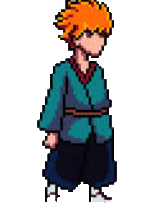
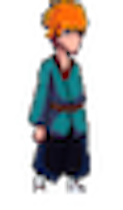
10.28

Changed region(s): [[0.2195, 0.0, 0.7561, 0.9429], [0.3659, 0.4, 0.3902, 0.4286], [0.3415, 0.4857, 0.3659, 0.5143]]

diff --git a/Objects/Character.py b/Objects/Character.py
@@ -1,0 +1,29 @@
+from GameFrame import RoomObject, Globals
+from GameFrame.Level import Level
+import pygame
+
+class Character(RoomObject):
+
+    def __init__(self, room, x, y):
+        RoomObject.__init__(self, room, x, y)
+
+        image = self.load_image("Stand.png")
+        self.set_image(image,130,180)
+
+        self.handle_key_events = True
+
+    def key_pressed(self, key):
+
+        if key[pygame.K_a]:
+            self.x -= 10
+        elif key[pygame.K_d]:
+            self.x += 10
+
+    def keep_in_room(self):
+        if self.x < 0:
+            self.x = 0
+        elif self.x + self.width> Globals.SCREEN_WIDTH:
+            self.x = Globals.SCREEN_WIDTH - self.width
+
+    def step(self):
+        self.keep_in_room()

diff --git a/Objects/Opponent.py b/Objects/Opponent.py
@@ -1,0 +1,19 @@
+from GameFrame import RoomObject
+import random
+
+class Opponent(RoomObject):
+
+    def __init__(self, room, x, y):
+        RoomObject.__init__(self, room, x, y)
+        
+        self.side = random.choice(["left", "right"])
+        if self.side == "left":
+            self.x = 0 
+            self.x_speed = 10
+            image = self.load_image("Opponent_left.png")
+        else:
+            self.x = 800  
+            self.x_speed = -10
+            image = self.load_image("Opponent_right.png")
+        
+        

diff --git a/Rooms/GamePlay.py b/Rooms/GamePlay.py
@@ -1,4 +1,6 @@
 from GameFrame import Level
+from Objects.Character import Character
+from Objects.Opponent import Opponent
 
 class GamePlay(Level):
     def __init__(self, screen, joysticks):
@@ -6,3 +8,6 @@ class GamePlay(Level):
         
         # set background image
         self.set_background_image("Background.png")
+
+        self.add_room_object(Character(self,550,500))
+        self.add_room_object(Opponent(self, 0, 500))

diff --git a/Objects/__init__.py b/Objects/__init__.py
@@ -1,2 +1,4 @@
 from Objects.Title import Title
 from Objects.Title import Subtitle
+from Objects.Character import Character
+from Objects.Opponent import Opponent
